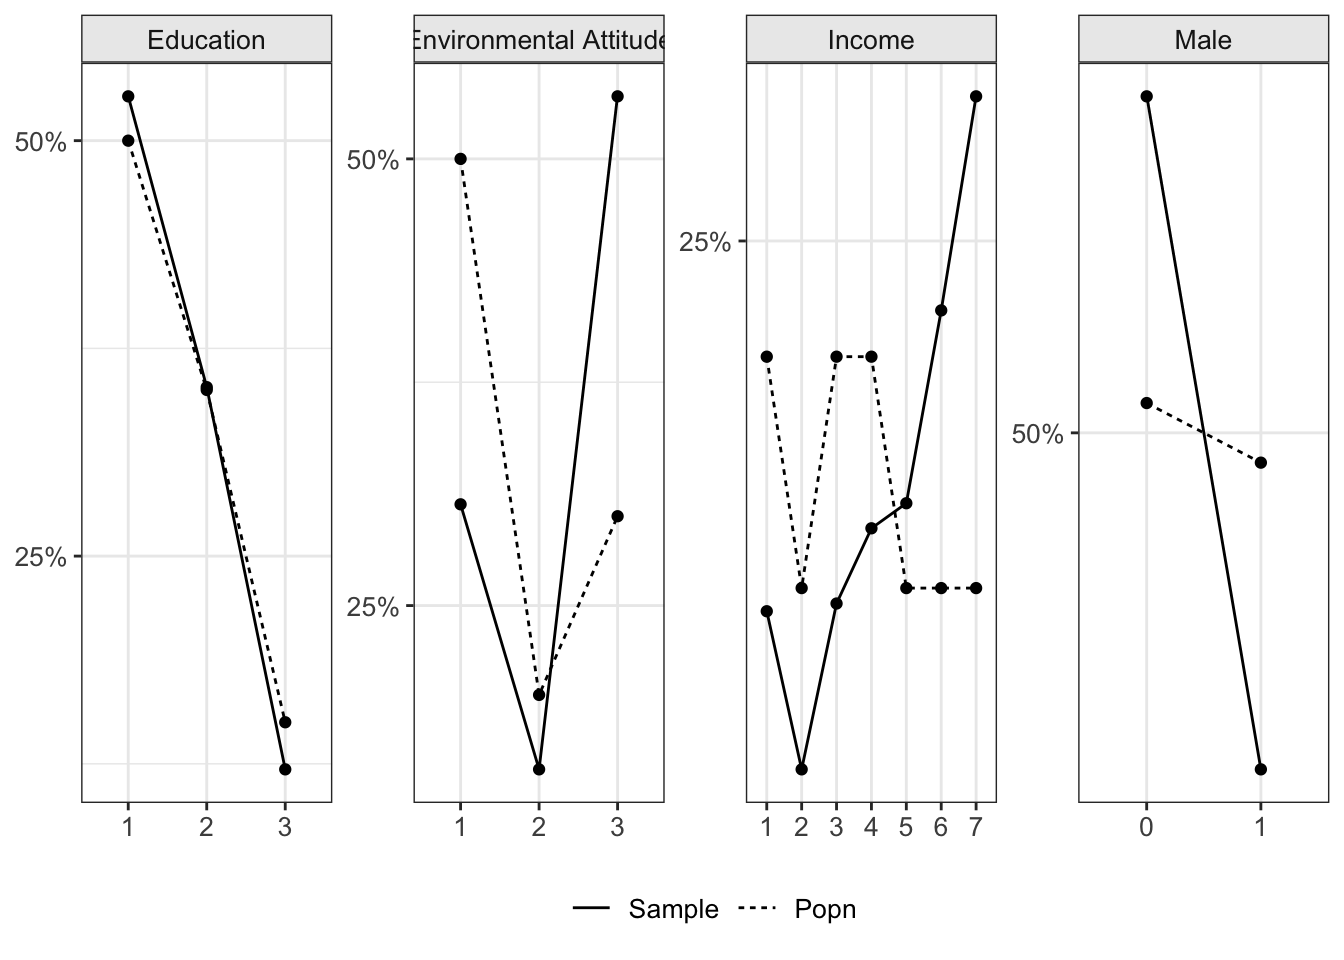
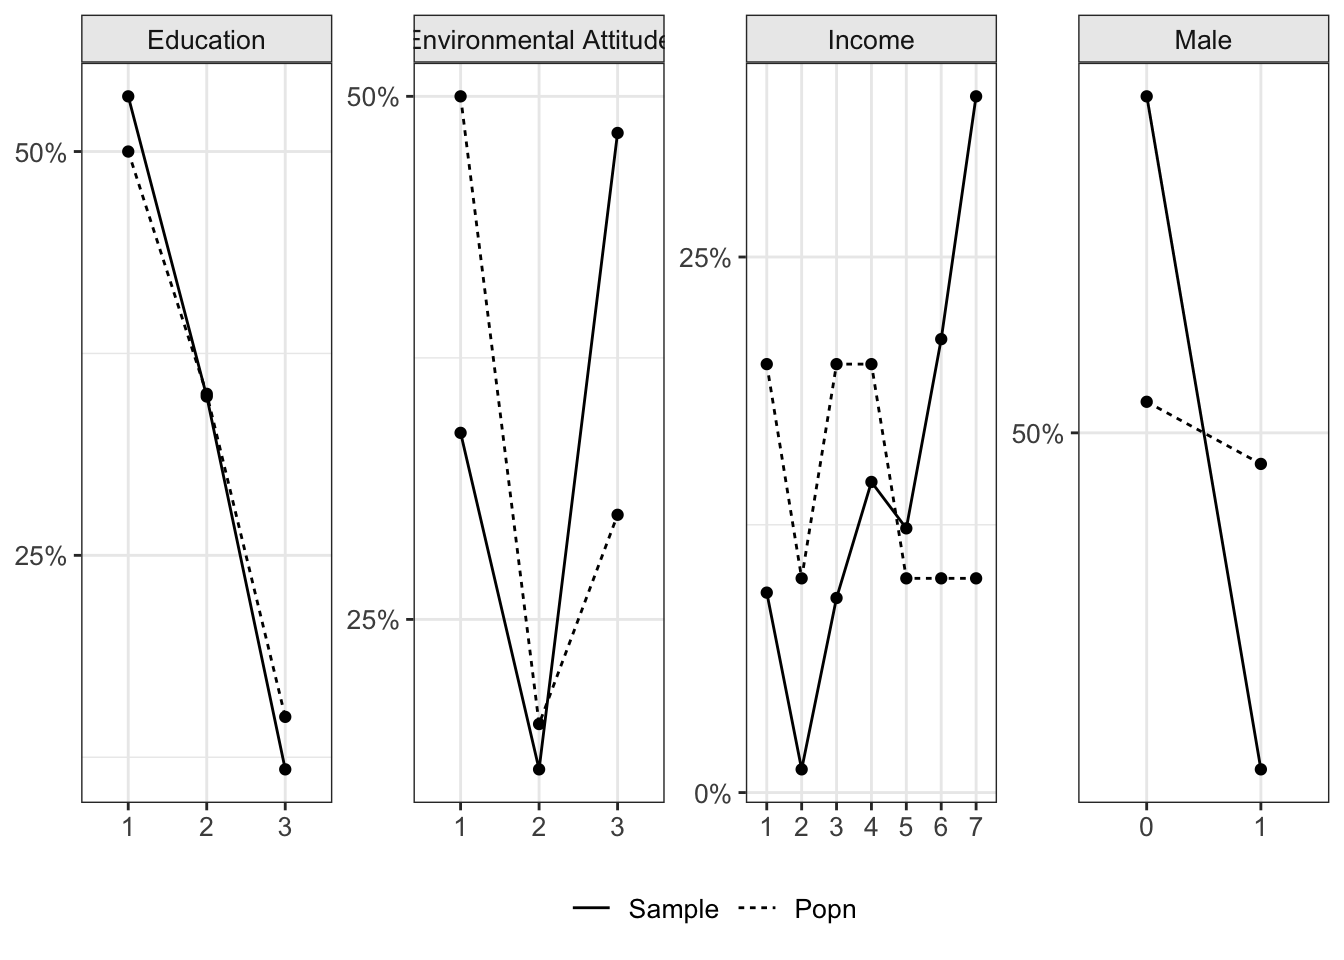
success!! everything works now!

diff --git a/docs/AdvancedTopicAssign_HN.html b/docs/AdvancedTopicAssign_HN.html
@@ -448,7 +448,7 @@ div.tocify {
 
 <h1 class="title toc-ignore">Advanced Topic - Post-stratification and Simulation</h1>
 <h4 class="author">Haley Netherton</h4>
-<h4 class="date">4/14/2020</h4>
+<h4 class="date">4/22/2020</h4>
 
 </div>
 
@@ -461,7 +461,7 @@ div.tocify {
 </div>
 <div id="my-problem-with-study-design" class="section level2">
 <h2>My Problem with Study Design</h2>
-<p>My project is still taking shape, but will be using a mixed-methods approach that will combine surveys, participatory mapping, interviews, and a historical and cross-cultural review. Currently, a challenge that I will face with my survey will be in trying to interpolate survey responses across my study region, in order to create a map of values for sagebrush steppe in the state of Idaho. Given that I will inevitably undersample certain demographics and geographies, improving my understanding of how to develop a more balanced sample will be useful in addressing this challenge. I will be using this advanced topic to explore post-stratification and MRP to determine what regions may require additional sampling effort. To this end, “success” will be learning a few tools for post-stratification and simulation and determining which might be best suited for my situation.</p>
+<p>My project is still taking shape, but will be using a mixed-methods approach that will combine surveys, participatory mapping, interviews, and a historical and cross-cultural review. Currently, a challenge that I will face with my survey will be in trying to interpolate survey responses across my study region, in order to create a map of values for sagebrush steppe in the state of Idaho. Given that I will inevitably undersample certain demographics and geographies, improving my understanding of how to develop a more balanced sample will be useful in addressing this challenge. I will be using this advanced topic to explore post-stratification and MRP. To this end, “success” will be learning a few tools for post-stratification and simulation and determining which might be best suited for my situation.</p>
 </div>
 <div id="what-the-heck-is-post-stratification" class="section level2">
 <h2>What the heck is post-stratification?</h2>
@@ -473,7 +473,19 @@ div.tocify {
 <p>Starting with the loading the libraries:</p>
 <pre class="r"><code>##Load the libraries 
 library(googledrive) #where dummy data is stored
-#authenticating google drive
+# designate project-specific cache
+options(gargle_oauth_cache = &quot;.haleyn&quot;)
+# check the value of the option, if you like
+gargle::gargle_oauth_cache()</code></pre>
+<pre><code>## [1] &quot;.haleyn&quot;</code></pre>
+<pre class="r"><code># trigger auth on purpose --&gt; store a token in the specified cache
+drive_auth()</code></pre>
+<pre><code>## Using an auto-discovered, cached token.
+## To suppress this message, modify your code or options to clearly consent to the use of a cached token.
+## See gargle&#39;s &quot;Non-interactive auth&quot; vignette for more details:
+## https://gargle.r-lib.org/articles/non-interactive-auth.html
+## The googledrive package is using a cached token for haleynetherton@u.boisestate.edu.</code></pre>
+<pre class="r"><code>#authenticating google drive
 options(
   gargle_oauth_cache = &quot;.haleyn&quot;,
   gargle_oauth_email = TRUE
@@ -491,19 +503,10 @@ library(bayesplot) #used for MRP plotting</code></pre>
 <p>Then exploring post-stratification using survey::rake and survey::postStratify using a random sample:</p>
 <pre class="r"><code>##Load and Organize Data - Post-Stratification
 folder_url &lt;- &quot;https://drive.google.com/drive/folders/1w2Bu9vCjRoHD6f52nMIXCmmC723OOCR7&quot;
-folder &lt;- drive_get(as_id(folder_url))</code></pre>
-<pre><code>## Using an auto-discovered, cached token.
-## To suppress this message, modify your code or options to clearly consent to the use of a cached token.
-## See gargle&#39;s &quot;Non-interactive auth&quot; vignette for more details:
-## https://gargle.r-lib.org/articles/non-interactive-auth.html
-## The googledrive package is using a cached token for haleynetherton@u.boisestate.edu.</code></pre>
-<pre class="r"><code>gdrive_files &lt;- drive_ls(folder)
+folder &lt;- drive_get(as_id(folder_url))
+gdrive_files &lt;- drive_ls(folder)
 lapply(gdrive_files$id, function(x) drive_download(as_id(x),
                                                    path = paste0(here::here(&quot;datatemp/original/&quot;), gdrive_files[gdrive_files$id==x,]$name), overwrite = TRUE))</code></pre>
-<pre><code>## File downloaded:
-##   * Dummy_Survey.xlsx
-## Saved locally as:
-##   * /Users/haleynetherton/Documents/Boise State/Spring 2020/HES 598 R/Classwork/HES598/datatemp/original/Dummy_Survey.xlsx</code></pre>
 <pre><code>## [[1]]
 ## # A tibble: 1 x 4
 ##   name       local_path                          id              drive_resource 
@@ -521,10 +524,9 @@ Dummy_Survey$Inc_Lev &lt;- factor(Dummy_Survey$Income, levels = c(&quot;Less tha
 labels = c(&quot;1&quot;, &quot;2&quot;, &quot;3&quot;, &quot;4&quot;, &quot;5&quot;, &quot;6&quot;, &quot;7&quot;, &quot;8&quot;, &quot;9&quot;, &quot;10&quot;, &quot;11&quot;, &quot;12&quot;))
 Dummy_Survey$Inc_Lev &lt;- as.numeric(Dummy_Survey$Inc_Lev)
 
-data.svy.unweighted &lt;- svydesign(ids=~1, data=Dummy_Survey)</code></pre>
-<pre><code>## Warning in svydesign.default(ids = ~1, data = Dummy_Survey): No weights or
-## probabilities supplied, assuming equal probability</code></pre>
-<pre class="r"><code>##Analysis/processing step 1 - Here we are exploring survey weights using rake{survey} and postStratify{survey}
+data.svy.unweighted &lt;- svydesign(ids=~1, data=Dummy_Survey)
+
+##Analysis/processing step 1 - Here we are exploring survey weights using rake{survey} and postStratify{survey}
 #Using rake{survey}
 #start by assuming population values for female (1) and male (2) are .55 and .45.
 gender.dist &lt;- data.frame(Sex_Num = c(&quot;1&quot;, &quot;2&quot;),
@@ -742,12 +744,12 @@ mrp_sim &lt;- simulate_mrp_data(n=1200)
 str(mrp_sim)</code></pre>
 <pre><code>## List of 3
 ##  $ sample   :&#39;data.frame&#39;:   1200 obs. of  7 variables:
-##   ..$ sage_pref: num [1:1200] 0 0 0 1 1 1 0 0 1 1 ...
-##   ..$ male     : num [1:1200] 0 0 0 0 0 0 0 0 0 0 ...
-##   ..$ env_att  : num [1:1200] 2 1 1 1 1 1 1 1 3 3 ...
-##   ..$ income   : num [1:1200] 1 3 5 6 4 7 6 1 7 2 ...
-##   ..$ educ     : num [1:1200] 2 2 1 1 2 2 3 1 1 1 ...
-##   ..$ county   : num [1:1200] 37 16 27 29 16 12 34 28 44 12 ...
+##   ..$ sage_pref: num [1:1200] 1 0 1 0 1 0 1 1 1 0 ...
+##   ..$ male     : num [1:1200] 0 0 0 0 0 1 1 0 0 1 ...
+##   ..$ env_att  : num [1:1200] 3 1 3 3 3 1 3 3 2 1 ...
+##   ..$ income   : num [1:1200] 3 6 3 3 7 1 5 7 5 5 ...
+##   ..$ educ     : num [1:1200] 2 1 1 1 1 1 1 1 2 2 ...
+##   ..$ county   : num [1:1200] 9 31 44 25 24 16 6 21 15 4 ...
 ##   ..$ id       : num [1:1200] 1 2 3 4 5 6 7 8 9 10 ...
 ##  $ poststrat:&#39;data.frame&#39;:   5544 obs. of  6 variables:
 ##   ..$ male   : num [1:5544] 0 0 0 0 0 0 0 0 0 0 ...
@@ -755,30 +757,30 @@ str(mrp_sim)</code></pre>
 ##   ..$ income : num [1:5544] 1 1 1 1 1 1 1 1 1 1 ...
 ##   ..$ educ   : num [1:5544] 1 1 1 1 1 1 1 1 1 1 ...
 ##   ..$ county : num [1:5544] 1 2 3 4 5 6 7 8 9 10 ...
-##   ..$ N      : num [1:5544] 94627 149464 92021 156523 120746 ...
+##   ..$ N      : num [1:5544] 109248 88805 115125 162642 94604 ...
 ##  $ true_popn:&#39;data.frame&#39;:   5544 obs. of  6 variables:
 ##   ..$ male     : num [1:5544] 0 0 0 0 0 0 0 0 0 0 ...
 ##   ..$ env_att  : num [1:5544] 1 1 1 1 1 1 1 1 1 1 ...
 ##   ..$ income   : num [1:5544] 1 1 1 1 1 1 1 1 1 1 ...
 ##   ..$ educ     : num [1:5544] 1 1 1 1 1 1 1 1 1 1 ...
 ##   ..$ county   : num [1:5544] 1 2 3 4 5 6 7 8 9 10 ...
-##   ..$ sage_pref: num [1:5544] 0.5 0.622 0.168 0.154 0.401 ...</code></pre>
+##   ..$ sage_pref: num [1:5544] 0.5 0.599 0.668 0.231 0.668 ...</code></pre>
 <pre class="r"><code>#creating table for sample and viewing head and tail of dataset
 sample &lt;- mrp_sim[[&quot;sample&quot;]]
 rbind(head(sample), tail(sample))</code></pre>
 <pre><code>##      sage_pref male env_att income educ county   id
-## 1            0    0       2      1    2     37    1
-## 2            0    0       1      3    2     16    2
-## 3            0    0       1      5    1     27    3
-## 4            1    0       1      6    1     29    4
-## 5            1    0       1      4    2     16    5
-## 6            1    0       1      7    2     12    6
-## 1195         0    0       3      7    2      4 1195
-## 1196         1    1       3      4    1      6 1196
-## 1197         0    0       3      4    2     23 1197
-## 1198         1    0       3      5    1      1 1198
-## 1199         1    0       2      7    2     12 1199
-## 1200         1    0       3      6    1     32 1200</code></pre>
+## 1            1    0       3      3    2      9    1
+## 2            0    0       1      6    1     31    2
+## 3            1    0       3      3    1     44    3
+## 4            0    0       3      3    1     25    4
+## 5            1    0       3      7    1     24    5
+## 6            0    1       1      1    1     16    6
+## 1195         1    0       1      7    3     16 1195
+## 1196         1    1       1      7    1     44 1196
+## 1197         1    1       2      7    2     35 1197
+## 1198         1    0       1      7    2      3 1198
+## 1199         0    1       1      6    1     39 1199
+## 1200         0    1       1      7    2      8 1200</code></pre>
 <pre class="r"><code>#creating object being called in plots (Final Product code chunk)
 poststrat &lt;- mrp_sim[[&quot;poststrat&quot;]]</code></pre>
 </div>
@@ -800,17 +802,21 @@ postStratify.time &lt;- system.time(postStratify(
 
 rake.time</code></pre>
 <pre><code>##    user  system elapsed 
-##   0.013   0.000   0.014</code></pre>
+##   0.015   0.000   0.016</code></pre>
 <pre class="r"><code>postStratify.time</code></pre>
 <pre><code>##    user  system elapsed 
-##   0.004   0.000   0.004</code></pre>
+##   0.006   0.000   0.008</code></pre>
 <p>Using rake{survey} and postStratify{survey} returned the same weighted means for the three variables. However, I found rake{survey} to be a lot clunkier and ran into a higher number of errors while I was using it. The postStratify{survey} function was easier to understand and required fewer lines of code. It therefore took less time for me to weigh the data by respondent sex.</p>
 <p>I had first attempted to use a different tutorial for MRP, which did not go well. I still had some trouble with the ‘rstanarm’ package and complexities of the code here. The for loops ended up sending my computer into a tailspin after awhile, leading to a C stack usage error (due to having to run the function several times due to code breaks). It would be interesting to explore other MRP code in the future to evaluate differences in speed, as this one required some overhaul to get R processing at its usual speed again. However, the documentation in the vignette and on Github were relatively useful in troubleshooting some of the issues I was having.</p>
 </div>
 <div id="final-product" class="section level1">
 <h1>Final Product</h1>
 <p>Originally, I attempted to create plots to compare sample to population and the effects of post-stratification on preference for sagebrush, but kept reaching an error in gzfile(file,wb). When I later attempted this after fixing some issues with package dependencies and object calls, I was able to produce the plots I was hoping to produce.</p>
-<p>Conclusions from Plots: - Using the sample I created to estimate sagebrush preference may not give accurate estimates of sagebrush preference in the population. - There are different levels of preference for the different levels of post-stratification variables.</p>
+<p>Conclusions from Plots:</p>
+<ul>
+<li><p>Using the sample I created to estimate sagebrush preference may not give accurate estimates of sagebrush preference in the population.</p></li>
+<li><p>There are different levels of preference for the different levels of post-stratification variables.</p></li>
+</ul>
 <pre class="r"><code>##Analysis/processing step 2 - Producing plots to compare sample to population and the effects of post-stratification on preference for sagebrush
 
 #First, sample and population comparisons
@@ -912,7 +918,7 @@ ggplot(data=summary_by_poststrat_var, aes(x=as.factor(category), y=y_mean,group=
 </div>
 <div id="original-reflection-march-10" class="section level1">
 <h1>Original Reflection (March 10)</h1>
-<p>This exercise has helped me work through some of the basics of post-stratification and MRP. It has also helped me realize some additional functionality for these methods that I hope to explore further to better inform my survey sampling strategy. I need to explore the interaction effects in the MRP code more in the future, as this was a line of code that kept leading to errors (“subscript out of bounds”) when I changed the variables that were interacting. This would allow me to better explore interactions between variables, such as income, education, and environmental attitude, which will help determine thresholds needed to detect the effects of some variables that may have complex interactions with others. I am looking forward to figuring out what is going wrong in that code so that I can investigate interaction effects further.</p>
+<p>This exercise has helped me work through some of the basics of post-stratification and MRP. It has also helped me realize some additional functionality for these methods that I hope to explore further to better inform my survey sampling strategy. I need to explore the interaction effects in the MRP code more in the future, as this was a line of code that kept leading to errors (“subscript out of bounds”) when I changed the variables that were interacting. This would allow me to better explore interactions between variables, such as income, education, and environmental attitude, which will help determine thresholds needed to detect the effects of some variables that may have complex interactions with others. I am looking forward to figuring out what is going wrong in that code so that I can investigate interaction effects further. Originally, I was unable to get the code for the plotting to work as well.</p>
 </div>
 <div id="updates-to-reflection-april-14" class="section level1">
 <h1>Updates to Reflection (April 14)</h1>
